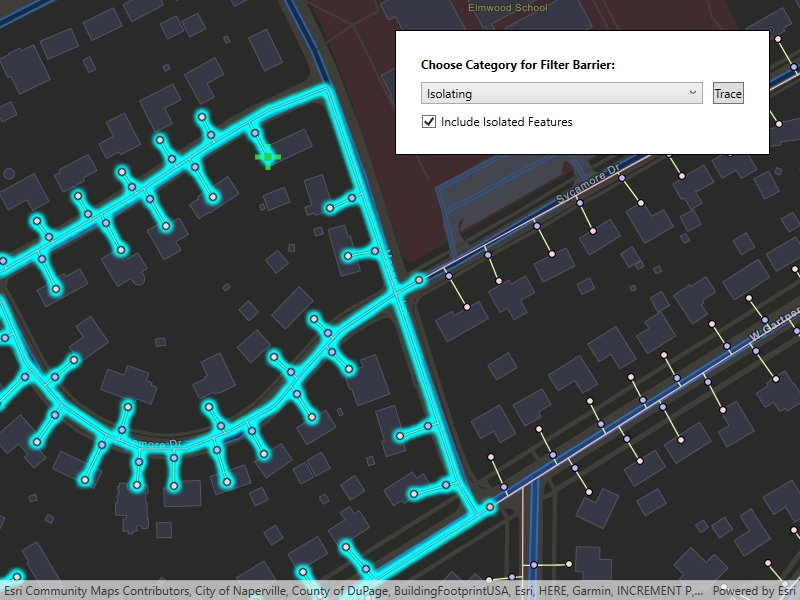
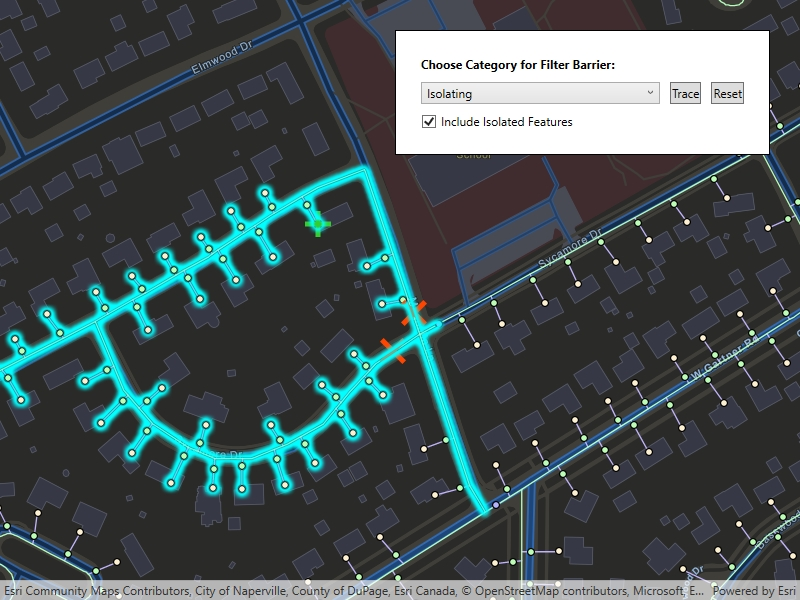
Cleanup

diff --git a/src/WPF/ArcGISRuntime.WPF.Viewer/Samples/Utility network/PerformValveIsolationTrace/PerformValveIsolationTrace.xaml.cs b/src/WPF/ArcGISRuntime.WPF.Viewer/Samples/Utility network/PerformValveIsolationTrace/PerformValveIsolationTrace.xaml.cs
@@ -50,7 +50,6 @@ namespace ArcGISRuntime.WPF.Samples.PerformValveIsolationTrace
         private UtilityElement _startingLocation;
 
         private UtilityTraceParameters _parameters;
-
         private GraphicsOverlay _barrierOverlay;
 
         // Task completion source for the user selected terminal.
@@ -205,7 +204,6 @@ namespace ArcGISRuntime.WPF.Samples.PerformValveIsolationTrace
             {
                 layer.ClearSelection();
             }
-
         }
 
         private async Task<UtilityTerminal> GetTerminalAsync(IEnumerable<UtilityTerminal> terminals)
@@ -240,7 +238,6 @@ namespace ArcGISRuntime.WPF.Samples.PerformValveIsolationTrace
             try
             {
                 LoadingBar.Visibility = Visibility.Visible;
-                //Status.Text = "Identifying trace locations...";
 
                 // Identify the feature to be used.
                 IEnumerable<IdentifyLayerResult> identifyResult = await MyMapView.IdentifyLayersAsync(e.Position, 10.0, false);
@@ -258,7 +255,6 @@ namespace ArcGISRuntime.WPF.Samples.PerformValveIsolationTrace
                     {
                         element.Terminal = await GetTerminalAsync(terminals);
                     }
-                    //Status.Text = $"Terminal: {element.Terminal?.Name ?? "default"}";
                 }
                 else if (element.NetworkSource.SourceType == UtilityNetworkSourceType.Edge)
                 {
@@ -269,7 +265,6 @@ namespace ArcGISRuntime.WPF.Samples.PerformValveIsolationTrace
                         double fraction = GeometryEngine.FractionAlong(line, e.Location, -1);
                         if (double.IsNaN(fraction)) { return; }
                         element.FractionAlongEdge = fraction;
-                       // Status.Text = $"Fraction along edge: {element.FractionAlongEdge}";
                     }
                 }
 
@@ -283,12 +278,10 @@ namespace ArcGISRuntime.WPF.Samples.PerformValveIsolationTrace
             }
             catch (Exception ex)
             {
-                //Status.Text = "Identifying locations failed.";
                 MessageBox.Show(ex.Message, ex.GetType().Name, MessageBoxButton.OK, MessageBoxImage.Error);
             }
             finally
             {
-                //if (Status.Text.Equals("Identifying trace locations...")) { Status.Text = "Could not identify location."; }
                 LoadingBar.Visibility = Visibility.Hidden;
             }
         }

diff --git a/src/WPF/ArcGISRuntime.WPF.Viewer/MainWindow.xaml.cs b/src/WPF/ArcGISRuntime.WPF.Viewer/MainWindow.xaml.cs
@@ -176,6 +176,8 @@ namespace ArcGISRuntime.Samples.Desktop
 
             CategoriesRegion.Visibility = Visibility.Collapsed;
             SampleContainer.Visibility = Visibility.Visible;
+            SampleContainer.Height = 600;
+            SampleContainer.Width = 800;
         }
 
         private static void ClearCredentials()

diff --git a/src/WPF/ArcGISRuntime.WPF.Viewer/Samples/Utility network/PerformValveIsolationTrace/readme.md b/src/WPF/ArcGISRuntime.WPF.Viewer/Samples/Utility network/PerformValveIsolationTrace/readme.md
@@ -10,43 +10,54 @@ Determine the set of operable features required to stop a network's resource, ef
 
 ## How to use the sample
 
-Create and set the configuration's filter barriers by selecting a category. Check or uncheck 'Include Isolated Features'. Click 'Trace' to run a subnetwork-based isolation trace.
+Tap on one or more features to use as filter barriers or create and set the configuration's filter barriers by selecting a category. Check or uncheck 'Include Isolated Features'. Click 'Trace' to run a subnetwork-based isolation trace. Click 'Reset' to clear filter barriers.
 
 ## How it works
 
-1.  Create a `MapView`.
-2.  Create and load a `UtilityNetwork` with a feature service URL.
-3.  Create a `Map` that contains `FeatureLayer`(s) that are part of this utility network.
-4.  Create a default starting location from a given asset type and global id.
-5.  Add a `GraphicsOverlay` with a `Graphic` that represents this starting location.
-6.  Populate the choice list for the 'Filter Barrier: Category exists' from `UtilityNetworkDefinition.Categories`.
-7.  Get a default `UtilityTraceConfiguration` from a given tier in a domain network. Set it's `Filter` with a new `UtilityTraceFilter`.
-8.  When 'Trace' is clicked,
-    - Create a new `UtilityCategoryComparison` with the selected category and `UtilityCategoryComparisonOperator.Exists`. 
-    - Assign this condition to `TraceFilter.Barriers` from the default configuration from step 7. Update this configuration's `IncludeIsolatedFeatures` property. 
-    - Create a `UtilityTraceParameters` with `UtilityTraceType.Isolation` and default starting location from step 4. 
-    - Set its `TraceConfiguration` with this configuration and then, run a `UtilityNetwork.TraceAsync`.
-11. For every `FeatureLayer` in the map, select the features returned by `GetFeaturesForElementsAsync` from the elements matching their `NetworkSource.Name` with the layer's `FeatureTable.Name`.
+1. Create a `MapView` and subscribe to its `GeoViewTapped` event.
+2. Create and load a `ServiceGeodatabase` with a feature service URL and get tables by their layer IDs.
+3. Create a `Map` that contains `FeatureLayer`(s) created from the `ServiceGeodatabase`'s tables.
+4. Create and load a `UtilityNetwork` with the same feature service URL and this `Map`.
+5. Create `UtilityTraceParameters` with `UtilityTraceType.Isolation` and a starting location from a given asset type and global ID.
+6. Get a default `UtilityTraceConfiguration` from a given tier in a domain network to set `UtilityTraceParameters.TraceConfiguration`.
+7. Add a `GraphicsOverlay` with a `Graphic` that represents this starting location; and another `GraphicsOverlay` for filter barriers.
+8. Populate the choice list for the 'Filter Barrier: Category exists' from `UtilityNetworkDefinition.Categories`.
+9. When the MapView is tapped, identify which features are at the tap location and add a `Graphic` that represents a filter barrier.
+10. Create a `UtilityElement` for the identified feature and add this `UtilityElement` to a collection of filter barriers.
+      - If the element is a junction with more than one terminal, display a terminal picker. Then set the junction's `Terminal` property with the selected terminal.
+      - If an edge, set its `FractionAlongLine` property using `GeometryEngine.FractionAlong`.  
+11. If 'Trace' is clicked without filter barriers:
+      - Create a new `UtilityCategoryComparison` with the selected category and `UtilityCategoryComparisonOperator.Exists`.
+      - Create a new `UtilityTraceFilter` with this condition as `Barriers` to set `Filter` and update `IncludeIsolatedFeatures` properties of the default configuration from step 5.
+      - Run a `UtilityNetwork.TraceAsync`.
+  
+    If 'Trace' is clicked with filter barriers:
+      - Update `IncludeIsolatedFeatures` property of the default configuration from step 5.
+      - Run a `UtilityNetwork.TraceAsync`.
+12. For every `FeatureLayer` in the map, select the features returned with `GetFeaturesForElementsAsync` from the elements matching their `NetworkSource.FeatureTable` with the layer's `FeatureTable`.
 
 ## Relevant API
 
-* UtilityCategory
-* UtilityCategoryComparison
-* UtilityCategoryComparisonOperator
-* UtilityDomainNetwork
-* UtilityElement
-* UtilityElementTraceResult
-* UtilityNetwork
-* UtilityNetworkDefinition
-* UtilityTier
-* UtilityTraceFilter
-* UtilityTraceParameters
-* UtilityTraceResult
-* UtilityTraceType
+*FractionAlong
+*ServiceGeodatabase
+*UtilityCategory
+*UtilityCategoryComparison
+*UtilityCategoryComparisonOperator
+*UtilityDomainNetwork
+*UtilityElement
+*UtilityElementTraceResult
+*UtilityNetwork
+*UtilityNetworkDefinition
+*UtilityTerminal
+*UtilityTier
+*UtilityTraceFilter
+*UtilityTraceParameters
+*UtilityTraceResult
+*UtilityTraceType
 
 ## About the data
 
-The [Naperville gas network feature service](https://sampleserver7.arcgisonline.com/server/rest/services/UtilityNetwork/NapervilleGas/FeatureServer), hosted on ArcGIS Online, contains a utility network used to run the isolation trace shown in this sample.
+The [Naperville gas network feature service](https://sampleserver7.arcgisonline.com/arcgis/rest/services/UtilityNetwork/NapervilleGas/FeatureServer), hosted on ArcGIS Online, contains a utility network used to run the isolation trace shown in this sample.
 
 ## Additional information
 
@@ -54,4 +65,4 @@ Using utility network on ArcGIS Enterprise 10.8 requires an ArcGIS Enterprise me
 
 ## Tags
 
-category comparison, condition barriers, isolated features, network analysis, subnetwork trace, trace configuration, trace filter, utility network
+category comparison, condition barriers, filter barriers, isolated features, network analysis, subnetwork trace, trace configuration, trace filter, utility network
